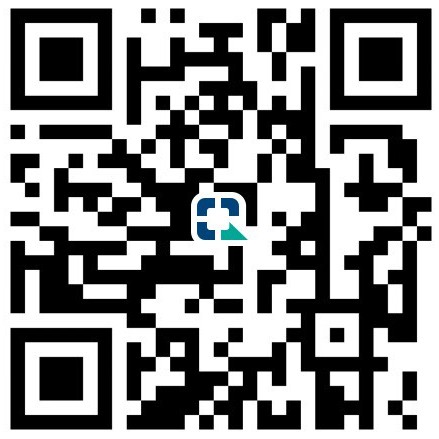
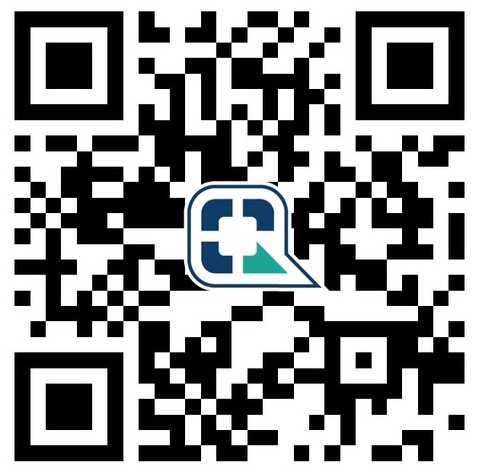
feat: update payment QR/account and harden PaymentModal close behavior
- Swap PromptPay QR image and displayed account number
- Block outside-click/Escape dismissal on PaymentModal — payment state
  (bank/account entered, or a pending awaiting_transfer request) is too
  easy to lose otherwise
- Add an explicit Cancel action (X button and a text link) that opens a
  confirm alert before actually closing, instead of closing instantly
- Rename the initiate button to "ยืนยันรายการ" with a check icon

diff --git a/src/components/PaymentModal.tsx b/src/components/PaymentModal.tsx
@@ -1,7 +1,7 @@
 import { useEffect, useState } from "react";
 import * as Dialog from "@radix-ui/react-dialog";
 import styled, { keyframes } from "styled-components";
-import { Upload, X, CheckCircle, Clock, AlertTriangle, MessageCircle } from "lucide-react";
+import { Upload, X, Check, CheckCircle, Clock, AlertTriangle, MessageCircle } from "lucide-react";
 import type { Plan } from "../auth";
 
 const overlayShow = keyframes`from{opacity:0}to{opacity:1}`;
@@ -172,6 +172,38 @@ const LineBtn = styled.a`
   &:hover{opacity:.9;}
 `;
 
+/* Cancel link + confirm alert (nested modal) */
+const CancelLink = styled.button`
+  background:none;border:none;color:#5a6278;font-size:12px;font-weight:600;
+  cursor:pointer;text-decoration:underline;text-underline-offset:2px;
+  align-self:center;font-family:inherit;
+  &:hover{color:#8892a4;}
+`;
+const ConfirmOverlay = styled.div`
+  position:absolute;inset:0;z-index:10;border-radius:16px;
+  background:rgba(0,0,0,.75);backdrop-filter:blur(2px);
+  display:flex;align-items:center;justify-content:center;padding:20px;
+`;
+const ConfirmCard = styled.div`
+  background:#151b23;border:1px solid #2a3a2a;border-radius:14px;
+  padding:22px;width:min(300px,100%);text-align:center;
+  box-shadow:0 20px 60px rgba(0,0,0,.5);
+  display:flex;flex-direction:column;gap:14px;
+  h3{font-size:15px;font-weight:800;color:#fff;}
+  p{font-size:13px;color:#8892a4;line-height:1.5;}
+`;
+const ConfirmActions = styled.div`display:flex;gap:8px;`;
+const DangerBtn = styled.button`
+  flex:1;padding:11px;border-radius:10px;border:none;cursor:pointer;
+  background:#ef4444;color:#fff;font-size:13px;font-weight:800;font-family:inherit;
+  &:hover{opacity:.9;}
+`;
+const GhostBtn = styled.button`
+  flex:1;padding:11px;border-radius:10px;border:1px solid #2a3a2a;cursor:pointer;
+  background:transparent;color:#e2e8f0;font-size:13px;font-weight:700;font-family:inherit;
+  &:hover{border-color:#4a6a4a;}
+`;
+
 const StatusBox = styled.div<{$ok?:boolean;$warn?:boolean}>`
   display:flex;align-items:center;gap:10px;padding:12px 14px;
   border-radius:10px;font-size:13px;font-weight:600;
@@ -246,6 +278,10 @@ export function PaymentModal({ plan, billingCycle, lang, onClose, onSuccess }: P
   const [preview,   setPreview]   = useState<string | null>(null);
   const [uploading, setUploading] = useState(false);
   const [submitted, setSubmitted] = useState(false);
+
+  const [showCancelConfirm, setShowCancelConfirm] = useState(false);
+  const requestClose = () => setShowCancelConfirm(true);
+  const confirmCancel = () => { setShowCancelConfirm(false); onClose(); };
 
   const handleInitiate = async () => {
     if (!fromAccount.trim() || !fromBank) return;
@@ -330,17 +366,20 @@ export function PaymentModal({ plan, billingCycle, lang, onClose, onSuccess }: P
   };
 
   return (
-    <Dialog.Root open onOpenChange={open => { if (!open) onClose(); }}>
+    <Dialog.Root open onOpenChange={() => { /* only the explicit close/cancel actions below may close this */ }}>
       <Dialog.Portal>
         <Overlay />
-        <Box>
+        <Box
+          onPointerDownOutside={e => e.preventDefault()}
+          onInteractOutside={e => e.preventDefault()}
+        >
           <Header>
             <LogoBox>♣</LogoBox>
             <HeaderText>
               <h2>THAI QR PAYMENT</h2>
               <p>GO POKER</p>
             </HeaderText>
-            <CloseBtn onClick={onClose}><X size={18}/></CloseBtn>
+            <CloseBtn onClick={requestClose}><X size={18}/></CloseBtn>
           </Header>
 
           <Body>
@@ -386,11 +425,14 @@ export function PaymentModal({ plan, billingCycle, lang, onClose, onSuccess }: P
                 <SubmitBtn
                   disabled={!fromAccount.trim() || !fromBank || initiating}
                   onClick={handleInitiate}
+                  style={{display:"flex",alignItems:"center",justifyContent:"center",gap:8}}
                 >
                   {initiating
                     ? (isTH ? "กำลังสร้างรายการ..." : "Creating...")
-                    : (isTH ? "สร้างรายการ / แสดง QR" : "Continue / Show QR")}
+                    : <><Check size={16}/> {isTH ? "ยืนยันรายการ" : "Confirm"}</>}
                 </SubmitBtn>
+
+                <CancelLink onClick={requestClose}>{isTH ? "ยกเลิก" : "Cancel"}</CancelLink>
               </>
             )}
 
@@ -410,7 +452,7 @@ export function PaymentModal({ plan, billingCycle, lang, onClose, onSuccess }: P
                 <AccountInfo>
                   <div className="title">สแกน QR เพื่อโอนเข้าบัญชี</div>
                   <div className="name">นาย ปัฐวี จันทร์สว่าง</div>
-                  <div className="acc">บัญชี: xxx-x-x3766-x</div>
+                  <div className="acc">บัญชี: 096-153-6525</div>
                 </AccountInfo>
 
                 <CountdownBox>
@@ -443,6 +485,8 @@ export function PaymentModal({ plan, billingCycle, lang, onClose, onSuccess }: P
                     {uploading ? (isTH ? "กำลังส่ง..." : "Sending...") : (isTH ? `ส่งสลิป: ${file.name}` : `Send slip: ${file.name}`)}
                   </SecondaryBtn>
                 )}
+
+                <CancelLink onClick={requestClose}>{isTH ? "ยกเลิกรายการนี้" : "Cancel this payment"}</CancelLink>
               </>
             )}
 
@@ -506,6 +550,27 @@ export function PaymentModal({ plan, billingCycle, lang, onClose, onSuccess }: P
               </>
             )}
           </Body>
+
+          {showCancelConfirm && (
+            <ConfirmOverlay>
+              <ConfirmCard>
+                <h3>{isTH ? "ยกเลิกรายการนี้ใช่ไหม?" : "Cancel this payment?"}</h3>
+                <p>
+                  {isTH
+                    ? "ถ้ายังไม่ได้โอนเงิน ยกเลิกได้เลยไม่มีผลอะไร แต่ถ้าโอนไปแล้วอย่าเพิ่งปิด รอให้ระบบตรวจสอบก่อน"
+                    : "Safe to cancel if you haven't paid yet. If you already transferred, don't close this — wait for auto-detection first."}
+                </p>
+                <ConfirmActions>
+                  <GhostBtn onClick={() => setShowCancelConfirm(false)}>
+                    {isTH ? "กลับไปทำต่อ" : "Go back"}
+                  </GhostBtn>
+                  <DangerBtn onClick={confirmCancel}>
+                    {isTH ? "ยืนยันยกเลิก" : "Yes, cancel"}
+                  </DangerBtn>
+                </ConfirmActions>
+              </ConfirmCard>
+            </ConfirmOverlay>
+          )}
         </Box>
       </Dialog.Portal>
     </Dialog.Root>
